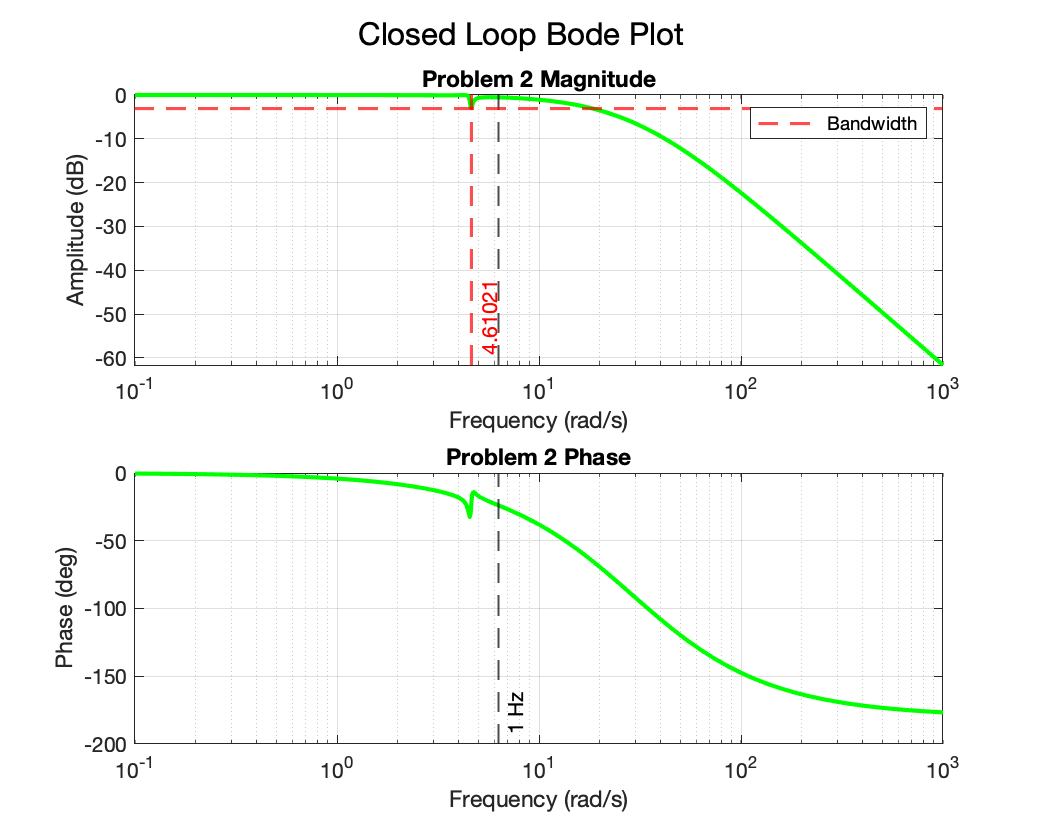
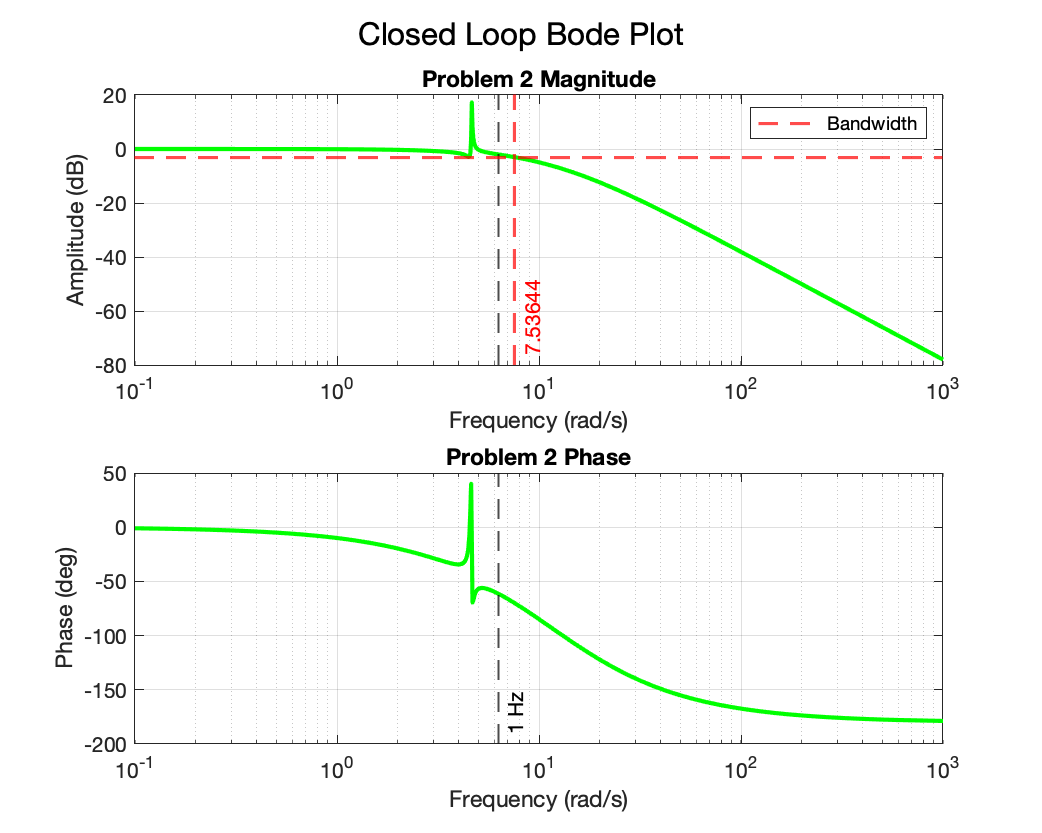
ahhh

diff --git a/Project2/problem2.m b/Project2/problem2.m
@@ -26,8 +26,8 @@ K = place(A,B,Desired_poles);
 %% Find Loop Gain, Closed Loop TF, and TF from Reference to Plant Input
 % Loop Gain
 s = tf('s');
-Lg_neg = K * inv(s * eye(size(A)) - A) * B;
-
+%Lg_neg_test = K * inv(s * eye(size(A)) - A) * B;
+Lg_neg = tf(ss(A, B, K, 0));
 % Closed Loop TF
 F =  inv(C*inv(-A+B*K)*B);
 Cl_Tf = C*inv(s*eye(size(A))-A+B*K)*B*F;
@@ -152,7 +152,7 @@ function J = pole_bandwidth_cost(x, A, B, C)
         s = tf('s');
         F = inv(C*inv(-A+B*K)*B);
         Cl_Tf = C*inv(s*eye(size(A))-A+B*K)*B*F;
-        
+
         % Compute closed-loop bandwidth
         bw = bandwidth(Cl_Tf);
         % bw_penalty = abs(bw - 2*pi)^2;
@@ -163,7 +163,7 @@ function J = pole_bandwidth_cost(x, A, B, C)
         % mag_at_notch = squeeze(mag);  
         % gain_dB = 20 * log10(mag_at_notch);
         % notch_penalty = max(0, (-2 - gain_dB)^2);
-        
+
         w_notch = logspace(log10(3), log10(10), 300);  
         [mag, ~] = bode(Cl_Tf, w_notch);
         mag = squeeze(mag);
@@ -172,7 +172,7 @@ function J = pole_bandwidth_cost(x, A, B, C)
         gain_drop = drop_threshold - gain_dB;
         gain_drop(gain_drop < 0) = 0; 
         notch_penalty = trapz(log10(w_notch), (gain_drop / 10).^2);
-        
+
         % Create penality to attempt to keep the plant input at approx < 67 mNm
         Cl_u2r = inv(1+K*inv(s*eye(size(A))-A)*B)*F;
         gain_limit = 67;
